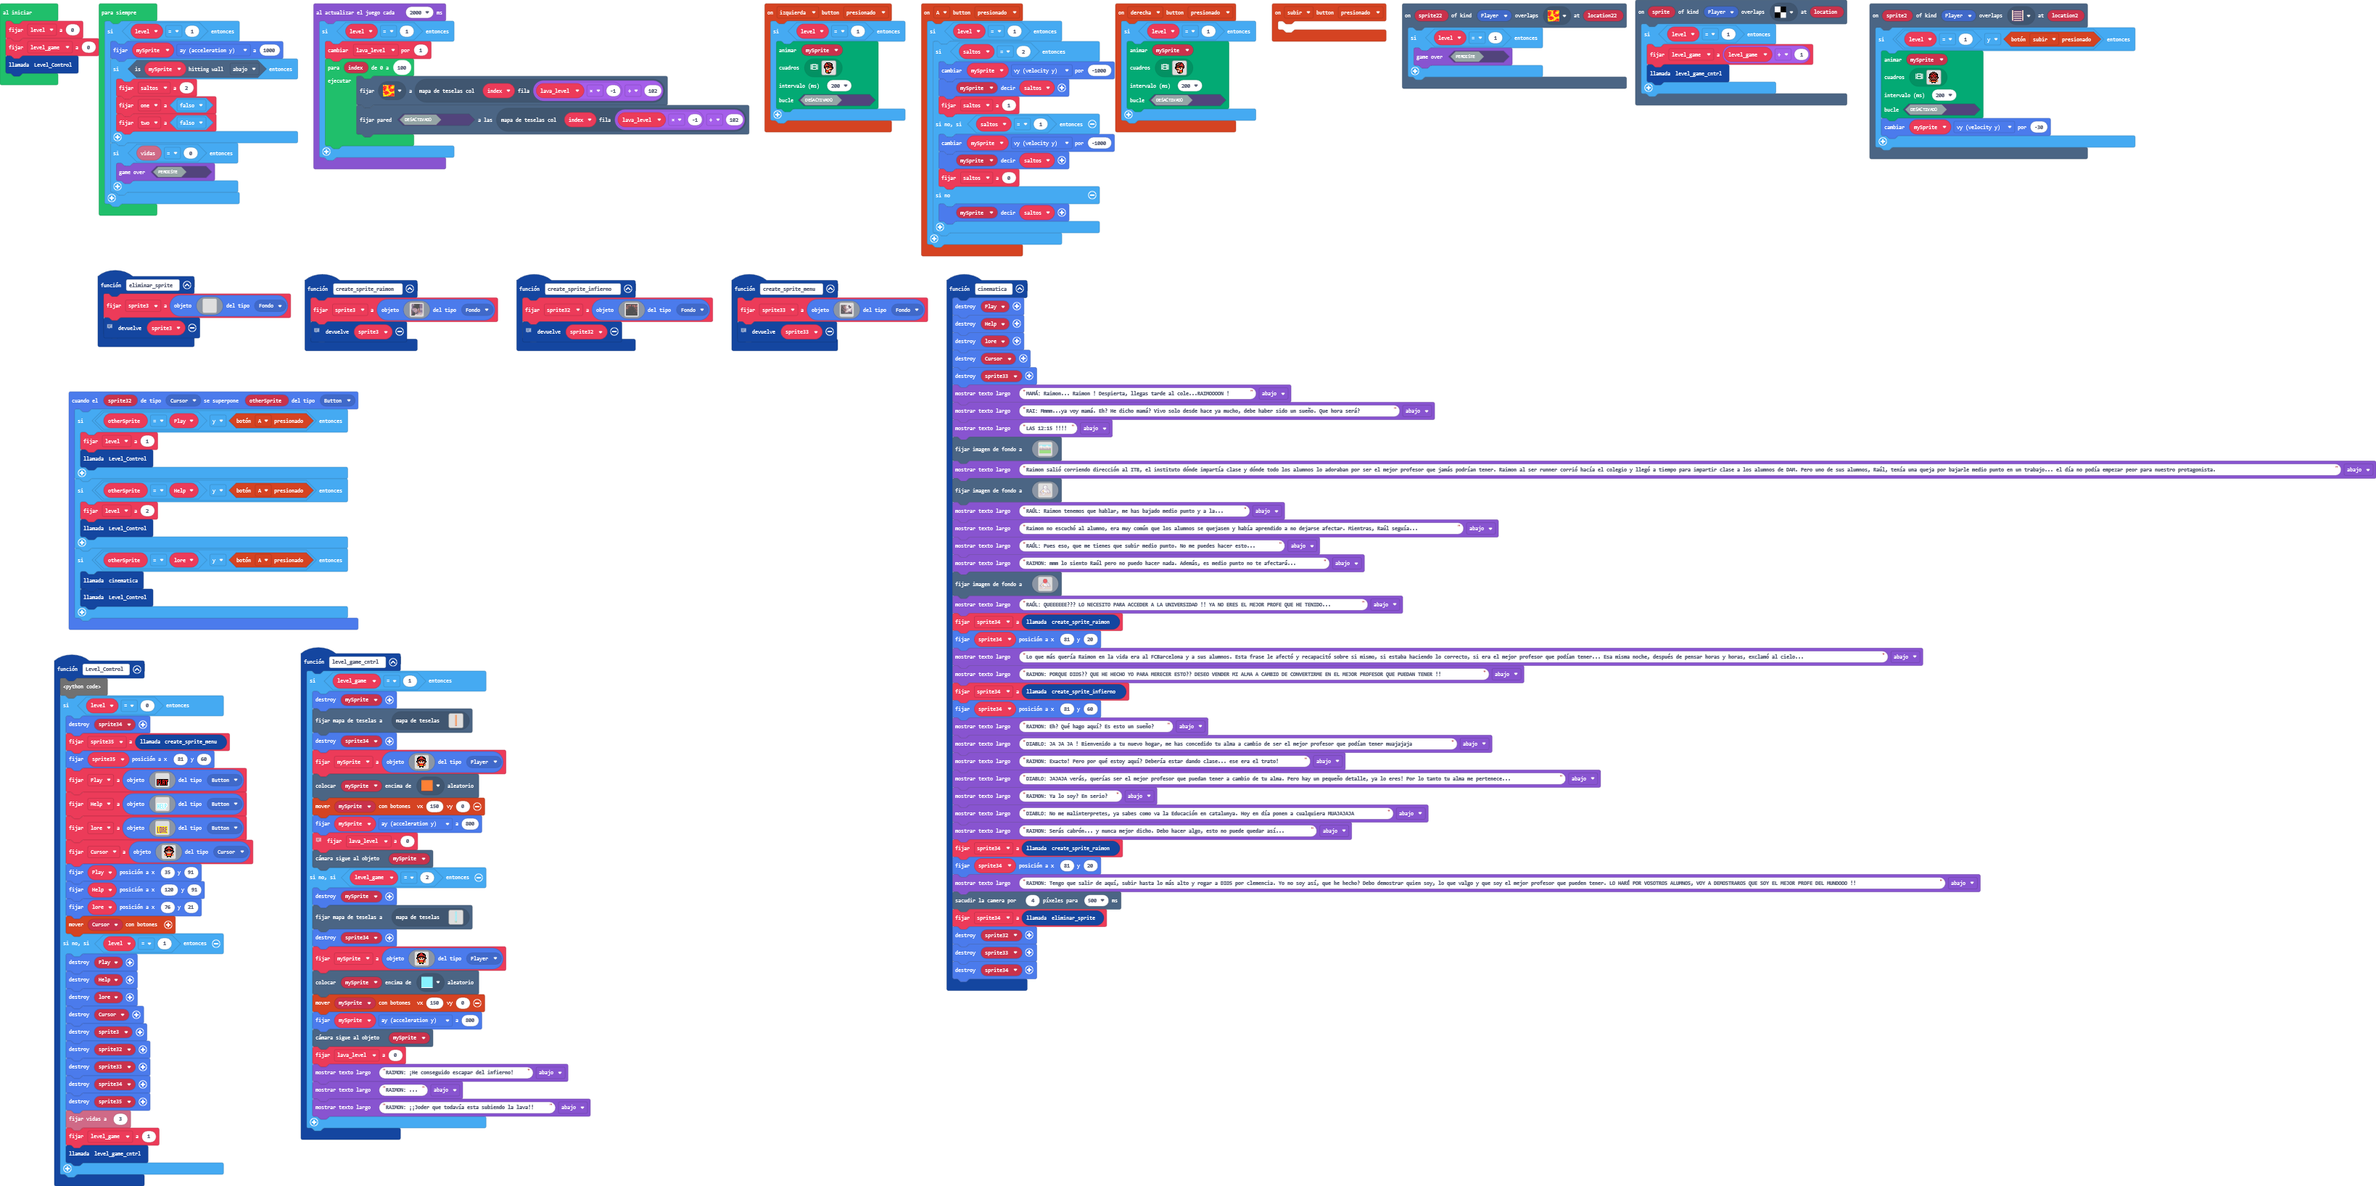
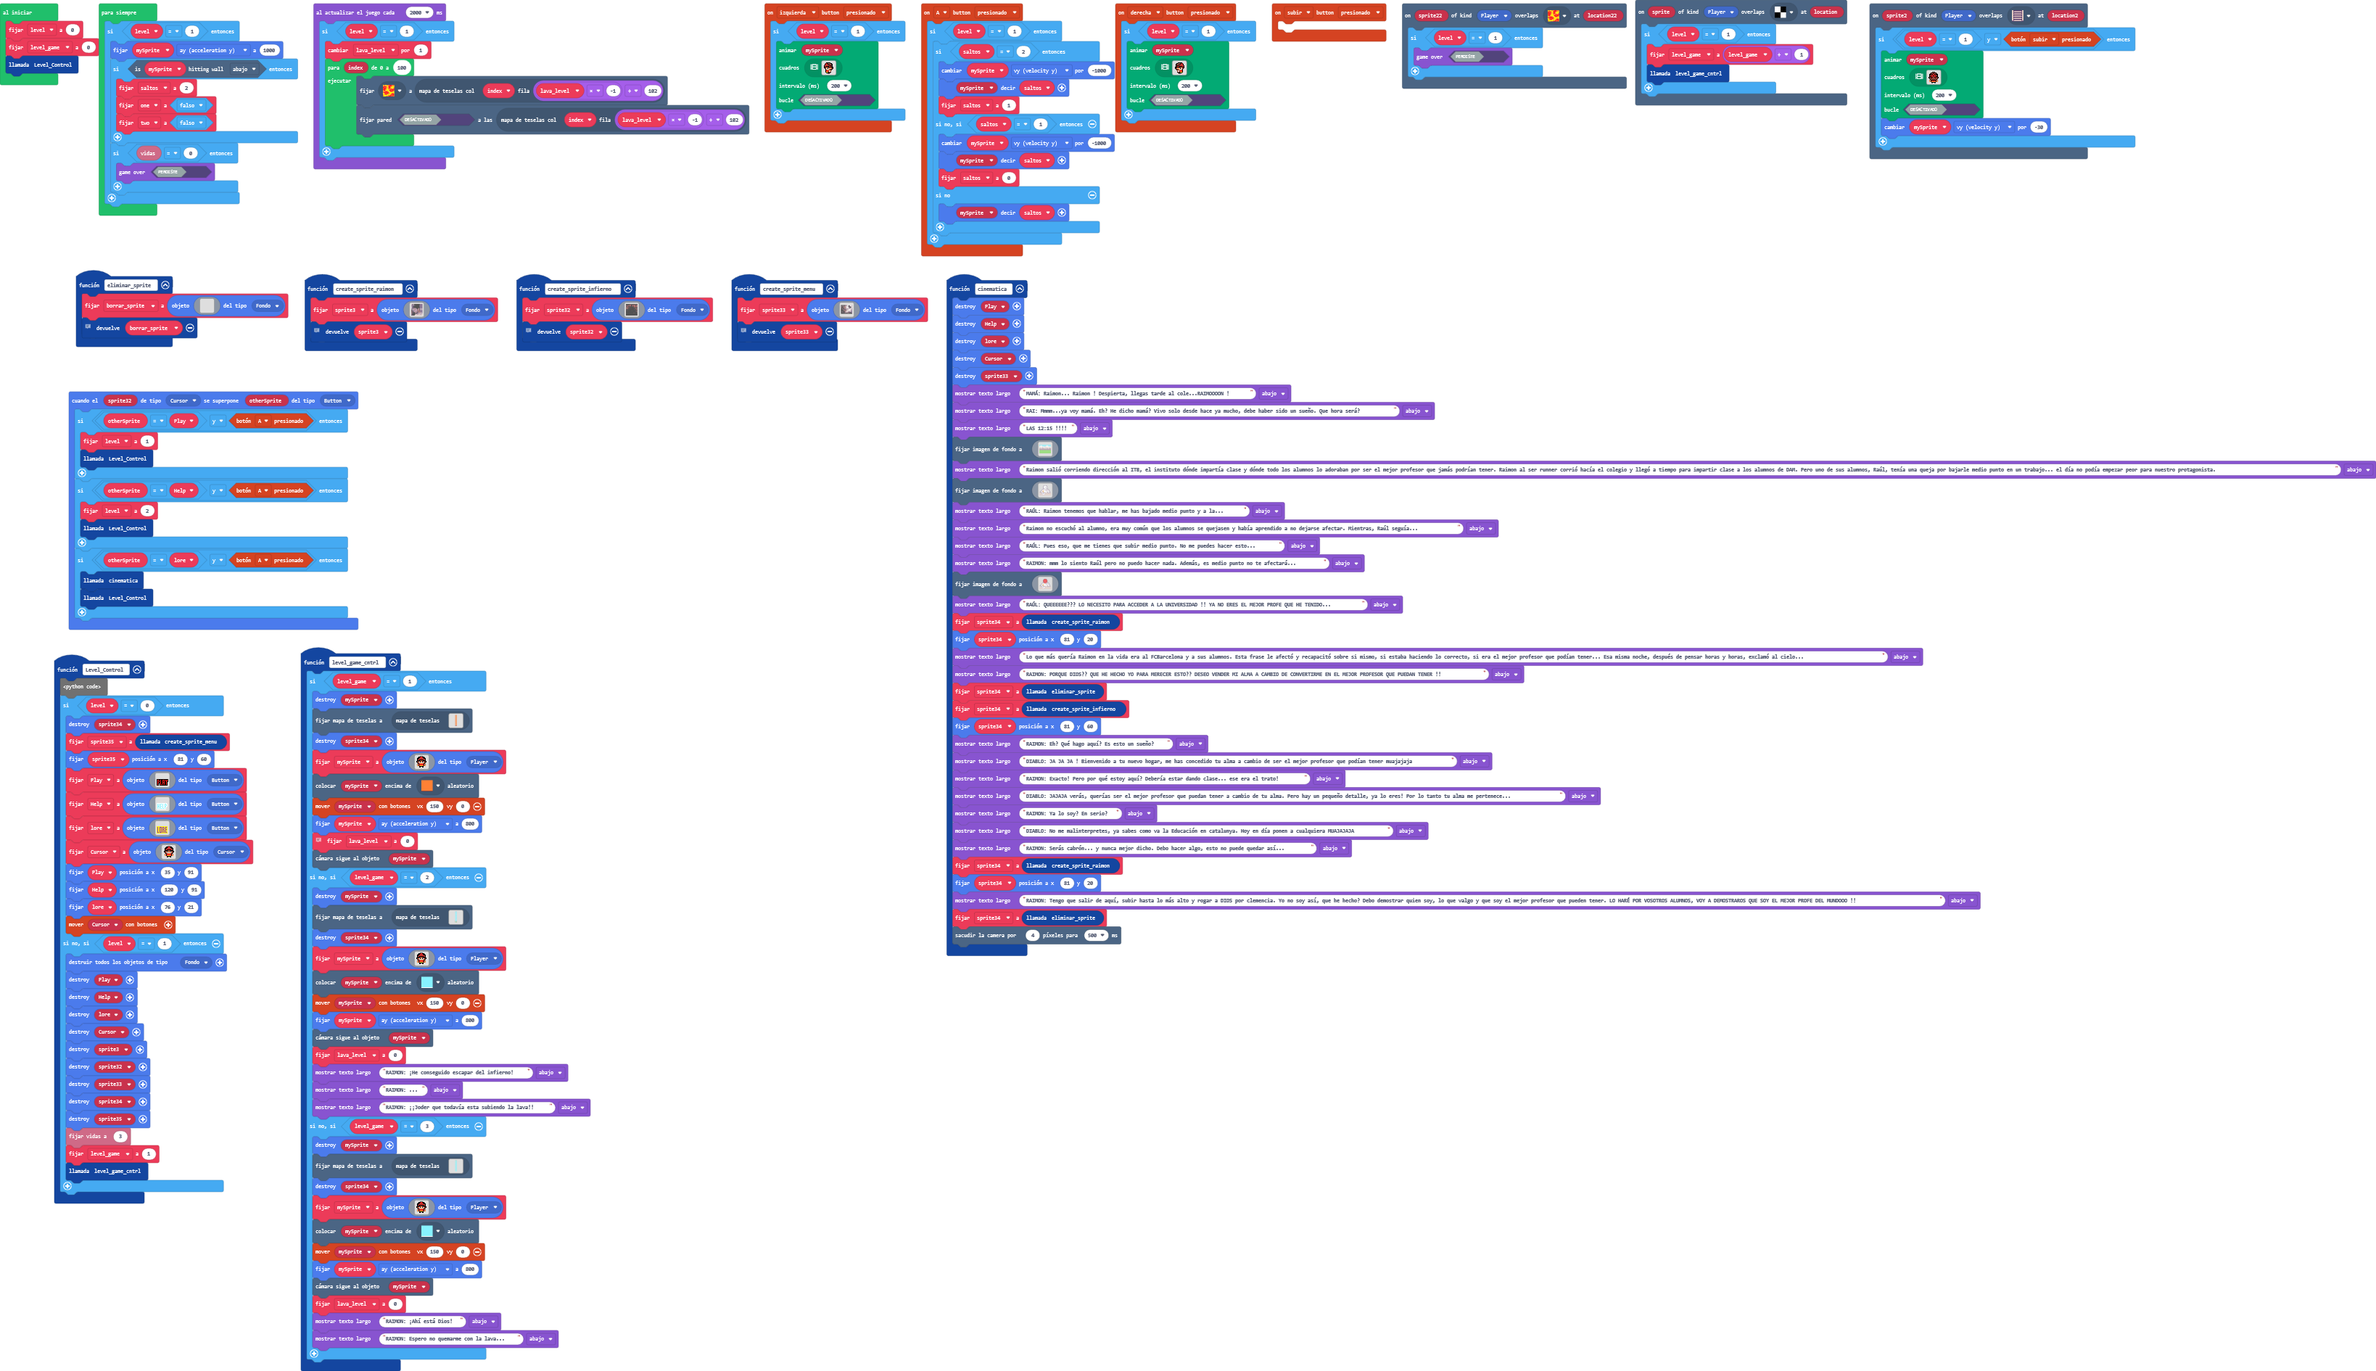
tercer nivel

Changed region(s): [[0.0, 0.0, 1.0, 1.0]]

diff --git a/tilemap.g.ts b/tilemap.g.ts
@@ -36,6 +36,8 @@ namespace myTiles {
     export const tile12 = image.ofBuffer(hex``);
     //% fixedInstance jres blockIdentity=images._tile
     export const tile17 = image.ofBuffer(hex``);
+    //% fixedInstance jres blockIdentity=images._tile
+    export const tile18 = image.ofBuffer(hex``);
 
     helpers._registerFactory("tilemap", function(name: string) {
         switch(helpers.stringTrim(name)) {
@@ -477,6 +479,149 @@ namespace myTiles {
 . . . . . . . . . . . . . . . . 
 . . . . . . . . . . . . . . . . 
 `, [myTiles.transparency16], TileScale.Sixteen);
+            case "nivel12":
+            case "nivel12":return tiles.createTilemap(hex`1000100000000000000000000000000000000000000000000000000000000000000000000000000000000000000000000000000000000000000000000000000000000000000000000000000000000000000000000000000000000000000000000000000000000000000000000000000000000000000000000000000000000000000000000000000000000000000000000000000000000000000000000000000000000000000000000000000000000000000000000000000000000000000000000000000000000000000000000000000000000000000000000000000000000000000000000000000000000000000000000000000000000000000000000000000000000000`, img`
+. . . . . . . . . . . . . . . . 
+. . . . . . . . . . . . . . . . 
+. . . . . . . . . . . . . . . . 
+. . . . . . . . . . . . . . . . 
+. . . . . . . . . . . . . . . . 
+. . . . . . . . . . . . . . . . 
+. . . . . . . . . . . . . . . . 
+. . . . . . . . . . . . . . . . 
+. . . . . . . . . . . . . . . . 
+. . . . . . . . . . . . . . . . 
+. . . . . . . . . . . . . . . . 
+. . . . . . . . . . . . . . . . 
+. . . . . . . . . . . . . . . . 
+. . . . . . . . . . . . . . . . 
+. . . . . . . . . . . . . . . . 
+. . . . . . . . . . . . . . . . 
+`, [myTiles.transparency16], TileScale.Sixteen);
+            case "nivel13":
+            case "nivel13":return tiles.createTilemap(hex`1000100000000000000000000000000000000000000000000000000000000000000000000000000000000000000000000000000000000000000000000000000000000000000000000000000000000000000000000000000000000000000000000000000000000000000000000000000000000000000000000000000000000000000000000000000000000000000000000000000000000000000000000000000000000000000000000000000000000000000000000000000000000000000000000000000000000000000000000000000000000000000000000000000000000000000000000000000000000000000000000000000000000000000000000000000000000000`, img`
+. . . . . . . . . . . . . . . . 
+. . . . . . . . . . . . . . . . 
+. . . . . . . . . . . . . . . . 
+. . . . . . . . . . . . . . . . 
+. . . . . . . . . . . . . . . . 
+. . . . . . . . . . . . . . . . 
+. . . . . . . . . . . . . . . . 
+. . . . . . . . . . . . . . . . 
+. . . . . . . . . . . . . . . . 
+. . . . . . . . . . . . . . . . 
+. . . . . . . . . . . . . . . . 
+. . . . . . . . . . . . . . . . 
+. . . . . . . . . . . . . . . . 
+. . . . . . . . . . . . . . . . 
+. . . . . . . . . . . . . . . . 
+. . . . . . . . . . . . . . . . 
+`, [myTiles.transparency16], TileScale.Sixteen);
+            case "level6":
+            case "level5":return tiles.createTilemap(hex`10006600030303030303030303030303030303030303030303030303030303030303030301010101010101010101010101010101010101010101010101010101010101010101010101010101010101010101010101010101010101010101010101010101010101010101010101010101010101010505050505050501010505050505050501010101010101010101010101010101010101010101010101010101010101010101010101010101010101010101010101010101010101010101010101010101010101010101010101010101010101010101010101010101010101010101010101010101010101050501010101010101010101010101010101010101010101010101010101010101010101010101010101010101010101010101010101010101010101010101010101010101010101010101010101010101010101010101010101010101010101010101010101010101010101010105050505050101010101010101010101010101010101010101010101010101010101010101010101010101010101010101010101010101010101010101010101010101010101010101010101010101010101010101010101050101010101010101010101010101010101010101010101010101010101010101010101010101010101010101010101010101010101010101010101010101010101010101010101010101010501010101010101010101010101010101010101010101010101010101010101010101010101010101010101010101010101010101010101010101010501010101010101010101010101010101010101010101010101010101010101010101010101010101010101010101010101010101010101010101010101010101010101010101010101010105010101010101010101010101010101010101010101010101010101010101010101010101010101010101010101010101010101010101010101010101010101010101010101010101010101010101010101010505050501010101010101010101010101010101010101010101010101010101010101010101010101010101010101010101010101010101010101010101010101010101010101010101010101010101010101010101010101010101010101010101010101010105010501010101010101010101010101010101010101010101010101010101010101010101010101010101010101010101010101010101010101010101010101010101010101010101010101010101010101010101010101010101010101010101010101010101010105050501010101010101010101010101010101010101010101010101010101010101010101010101010101010101010101010101010101010101010101010101010101010101010101010101010101010101010101010105050101010101010101010101010101010101010101010101010101010101010101010101010101010101010101010101010101010101010101010101010101010101010101010101010101010101010101010101010101010101010101010101010101010101010101010101010105050505010101010101010101010101010101010101010101010101010101010101010101010101010101010101010101010101010101010101010101010101010101010101010101010101010101010101010101010101010101050101010101010101010101010101010101010101010101010101010101010101010101010101010101010101010101010101010101010101010101010101010101010101050501010101010101010101010101010101010101010101010101010101010101010101010101010101010101010101010101010101010101010101010101010101010101010101010101050501010101010101010101010101010101010101010101010101010101010101010101010101010101010101010101010101010101010101010101010101010101010101010101010101010501010101010101010101010101010101010101010101010101010101010101010101010505010101010101010101010101010101010101010101010101010101010101010101010101010101010101010101010101010101010101010101010505010101010101010101010101010101010101010101010101010101010101010101010101010401010101010101020202020202020202020202020202020101010101010101010101010101010101020201010101010101020101010101`, img`
+................
+................
+................
+................
+................
+................
+................
+2222222..2222222
+................
+................
+................
+................
+................
+................
+.......22.......
+................
+................
+................
+................
+................
+................
+.....22222......
+................
+................
+................
+................
+.............2..
+................
+................
+................
+................
+.........2......
+................
+................
+................
+.....2..........
+................
+................
+................
+................
+.2..............
+................
+................
+................
+................
+....2222........
+................
+................
+................
+................
+................
+...........2.2..
+................
+................
+................
+................
+................
+................
+....222.........
+................
+................
+................
+................
+...........22...
+................
+................
+................
+................
+................
+................
+..........2222..
+................
+................
+................
+................
+................
+.....2..........
+................
+................
+................
+..........22....
+................
+................
+................
+................
+.....22.........
+................
+................
+................
+................
+.2..............
+................
+.....22.........
+................
+................
+................
+.22.............
+................
+................
+2222222222222222
+................
+................
+`, [myTiles.transparency16,myTiles.tile1,myTiles.tile2,myTiles.tile4,myTiles.tile15,myTiles.tile18], TileScale.Sixteen);
         }
         return null;
     })
@@ -518,6 +663,8 @@ namespace myTiles {
             case "tile12":return tile12;
             case "trueinicio2":
             case "tile17":return tile17;
+            case "myTile2":
+            case "tile18":return tile18;
         }
         return null;
     })

diff --git a/main.ts b/main.ts
@@ -323,6 +323,7 @@ function cinematica () {
     sprite34.setPosition(81, 20)
     game.showLongText("Lo que más quería Raimon en la vida era al FCBarcelona y a sus alumnos. Esta frase le afectó y recapacitó sobre si mismo, si estaba haciendo lo correcto, si era el mejor profesor que podían tener... Esa misma noche, después de pensar horas y horas, exclamó al cielo...", DialogLayout.Bottom)
     game.showLongText("RAIMON: PORQUE DIOS?? QUE HE HECHO YO PARA MERECER ESTO?? DESEO VENDER MI ALMA A CAMBIO DE CONVERTIRME EN EL MEJOR PROFESOR QUE PUEDAN TENER !!", DialogLayout.Bottom)
+    sprite34 = eliminar_sprite()
     sprite34 = create_sprite_infierno()
     sprite34.setPosition(81, 60)
     game.showLongText("RAIMON: Eh? Qué hago aquí? Es esto un sueño?", DialogLayout.Bottom)
@@ -335,11 +336,8 @@ function cinematica () {
     sprite34 = create_sprite_raimon()
     sprite34.setPosition(81, 20)
     game.showLongText("RAIMON: Tengo que salir de aquí, subir hasta lo más alto y rogar a DIOS por clemencia. Yo no soy así, que he hecho? Debo demostrar quien soy, lo que valgo y que soy el mejor profesor que pueden tener. LO HARÉ POR VOSOTROS ALUMNOS, VOY A DEMOSTRAROS QUE SOY EL MEJOR PROFE DEL MUNDOOO !!", DialogLayout.Bottom)
-    scene.cameraShake(4, 500)
     sprite34 = eliminar_sprite()
-    sprites.destroy(sprite32)
-    sprites.destroy(sprite33)
-    sprites.destroy(sprite34)
+    scene.cameraShake(4, 500)
 }
 scene.onOverlapTile(SpriteKind.Player, assets.tile`meta`, function (sprite, location) {
     if (level == 1) {
@@ -402,6 +400,7 @@ if (level == 0) {
         lore.setPosition(76, 21)
         controller.moveSprite(Cursor)
     } else if (level == 1) {
+        sprites.destroyAllSpritesOfKind(SpriteKind.Fondo)
         sprites.destroy(Play)
         sprites.destroy(Help)
         sprites.destroy(lore)
@@ -586,9 +585,9 @@ function create_sprite_infierno () {
     return sprite32
 }
 function eliminar_sprite () {
-    sprite3 = sprites.create(assets.image`myImage0`, SpriteKind.Fondo)
+    borrar_sprite = sprites.create(assets.image`myImage0`, SpriteKind.Fondo)
     // sprite2.set_position(76, 81)
-    return sprite3
+    return borrar_sprite
 }
 sprites.onOverlap(SpriteKind.Cursor, SpriteKind.Button, function (sprite32, otherSprite) {
     if (otherSprite == Play && controller.A.isPressed()) {
@@ -757,13 +756,26 @@ function level_game_cntrl () {
         game.showLongText("RAIMON: ¡He conseguido escapar del infierno!", DialogLayout.Bottom)
         game.showLongText("RAIMON: ...", DialogLayout.Bottom)
         game.showLongText("RAIMON: ¡¡Joder que todavía esta subiendo la lava!!", DialogLayout.Bottom)
+    } else if (level_game == 3) {
+        sprites.destroy(mySprite)
+        tiles.setCurrentTilemap(tilemap`level6`)
+        sprites.destroy(sprite34)
+        mySprite = sprites.create(assets.image`user`, SpriteKind.Player)
+        tiles.placeOnRandomTile(mySprite, assets.tile`myTile`)
+        controller.moveSprite(mySprite, 150, 0)
+        mySprite.ay = 800
+        scene.cameraFollowSprite(mySprite)
+        lava_level = 0
+        game.showLongText("RAIMON: ¡Ahí está Dios!", DialogLayout.Bottom)
+        game.showLongText("RAIMON: Espero no quemarme con la lava...", DialogLayout.Bottom)
     }
 }
 let two = false
 let one = false
 let lava_level = 0
-let saltos = 0
+let borrar_sprite: Sprite = null
 let sprite32: Sprite = null
+let saltos = 0
 let sprite34: Sprite = null
 let sprite33: Sprite = null
 let Cursor: Sprite = null

diff --git a/images.g.ts b/images.g.ts
@@ -456,6 +456,25 @@ f f f . f f f f f f f f f f f .
 5 a a 5 a a a 5 a 5 a 5 a a 5 . 
 5 5 5 5 5 5 5 5 5 5 5 5 5 5 5 . 
 `;
+            case "image10":
+            case "fuego":return img`
+. . . . . . . . . . . . . . . . 
+. . . . . . . . . . . . . . . . 
+. . . . . . . . 4 5 5 . . . . . 
+. . . . . . . 4 4 4 4 2 5 . . . 
+. . . . . . 4 2 5 2 5 4 2 2 . . 
+. . . . . 4 4 5 5 2 5 2 4 5 5 . 
+. . . . 4 5 4 4 4 2 5 2 5 4 5 . 
+. . . 4 4 5 4 5 4 5 5 5 5 4 5 . 
+. . . 4 5 4 5 5 4 5 5 2 5 4 5 . 
+. . 4 4 5 4 5 2 5 4 4 4 5 4 5 . 
+. 4 5 5 4 5 5 4 5 5 2 4 5 4 4 . 
+. 4 5 2 4 5 2 5 5 5 5 5 5 4 4 . 
+. 4 5 4 2 5 4 5 2 2 5 5 5 2 4 . 
+. 5 4 5 2 4 5 4 4 4 4 4 4 5 5 4 
+. 4 5 4 4 4 4 4 5 5 5 5 4 4 4 4 
+. . . . . . . . . . . . . . . . 
+`;
         }
         return null;
     })

diff --git a/main.py b/main.py
@@ -342,6 +342,7 @@ def cinematica():
         DialogLayout.BOTTOM)
     game.show_long_text("RAIMON: PORQUE DIOS?? QUE HE HECHO YO PARA MERECER ESTO?? DESEO VENDER MI ALMA A CAMBIO DE CONVERTIRME EN EL MEJOR PROFESOR QUE PUEDAN TENER !!",
         DialogLayout.BOTTOM)
+    sprite34 = eliminar_sprite()
     sprite34 = create_sprite_infierno()
     sprite34.set_position(81, 60)
     game.show_long_text("RAIMON: Eh? Qué hago aquí? Es esto un sueño?",
@@ -361,11 +362,8 @@ def cinematica():
     sprite34.set_position(81, 20)
     game.show_long_text("RAIMON: Tengo que salir de aquí, subir hasta lo más alto y rogar a DIOS por clemencia. Yo no soy así, que he hecho? Debo demostrar quien soy, lo que valgo y que soy el mejor profesor que pueden tener. LO HARÉ POR VOSOTROS ALUMNOS, VOY A DEMOSTRAROS QUE SOY EL MEJOR PROFE DEL MUNDOOO !!",
         DialogLayout.BOTTOM)
-    scene.camera_shake(4, 500)
     sprite34 = eliminar_sprite()
-    sprites.destroy(sprite322)
-    sprites.destroy(sprite33)
-    sprites.destroy(sprite34)
+    scene.camera_shake(4, 500)
 
 def on_overlap_tile2(sprite, location):
     global level_game
@@ -445,6 +443,7 @@ def Level_Control():
         lore.set_position(76, 21)
         controller.move_sprite(Cursor2)
     elif level == 1:
+        sprites.destroy_all_sprites_of_kind(SpriteKind.Fondo)
         sprites.destroy(Play)
         sprites.destroy(Help)
         sprites.destroy(lore)
@@ -630,12 +629,12 @@ def create_sprite_infierno():
     # sprite2.set_position(76, 81)
     return sprite322
 def eliminar_sprite():
-    global sprite3
-    sprite3 = sprites.create(assets.image("""
+    global borrar_sprite
+    borrar_sprite = sprites.create(assets.image("""
         myImage0
     """), SpriteKind.Fondo)
     # sprite2.set_position(76, 81)
-    return sprite3
+    return borrar_sprite
 
 def on_on_overlap(sprite32, otherSprite):
     global level
@@ -819,11 +818,33 @@ def level_game_cntrl():
         game.show_long_text("RAIMON: ...", DialogLayout.BOTTOM)
         game.show_long_text("RAIMON: ¡¡Joder que todavía esta subiendo la lava!!",
             DialogLayout.BOTTOM)
+    elif level_game == 3:
+        sprites.destroy(mySprite)
+        tiles.set_current_tilemap(tilemap("""
+            level6
+        """))
+        sprites.destroy(sprite34)
+        mySprite = sprites.create(assets.image("""
+            user
+        """), SpriteKind.player)
+        tiles.place_on_random_tile(mySprite, assets.tile("""
+            myTile
+        """))
+        controller.move_sprite(mySprite, 150, 0)
+        mySprite.ay = 800
+        scene.camera_follow_sprite(mySprite)
+        lava_level = 0
+        game.show_long_text("RAIMON: ¡Ahí está Dios!", DialogLayout.BOTTOM)
+        game.show_long_text("RAIMON: Espero no quemarme con la lava...",
+            DialogLayout.BOTTOM)
+    else:
+        pass
 two = False
 one = False
 lava_level = 0
-saltos = 0
+borrar_sprite: Sprite = None
 sprite322: Sprite = None
+saltos = 0
 sprite34: Sprite = None
 sprite33: Sprite = None
 Cursor2: Sprite = None
